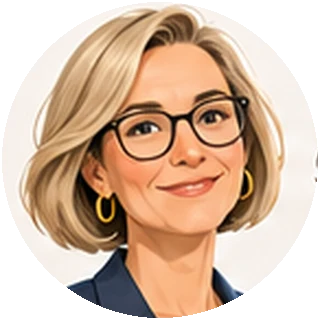
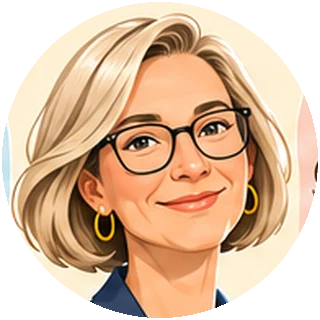
Portraits: re-cut all eight from Leo's corrected sheet
Larger faces, pastel background per figure, Pawel in KONTOR shirt,
courier with Express-Nord cap (no real brand).

Claude-Session: https://claude.ai/code/session_01DC5VQB2TshgMSF986Y8GDT

diff --git a/vorschau/gespraechsszene.html b/vorschau/gespraechsszene.html
@@ -51,7 +51,7 @@
   </div>
 
   <h2>Alle Porträts</h2>
-  <p><img class="gespraech__bild" src="../assets/figuren/nora.webp" alt="nora" style="margin:0 .4rem .4rem 0"> <img class="gespraech__bild" src="../assets/figuren/lenz.webp" alt="lenz" style="margin:0 .4rem .4rem 0"> <img class="gespraech__bild" src="../assets/figuren/melnyk.webp" alt="melnyk" style="margin:0 .4rem .4rem 0"> <img class="gespraech__bild" src="../assets/figuren/haddad.webp" alt="haddad" style="margin:0 .4rem .4rem 0"> <img class="gespraech__bild" src="../assets/figuren/nowak.webp" alt="nowak" style="margin:0 .4rem .4rem 0"> <img class="gespraech__bild" src="../assets/figuren/becker.webp" alt="becker" style="margin:0 .4rem .4rem 0"> <img class="gespraech__bild" src="../assets/figuren/sommer.webp" alt="sommer" style="margin:0 .4rem .4rem 0"></p>
+  <p><img class="gespraech__bild" src="../assets/figuren/nora.webp" alt="nora" style="margin:0 .4rem .4rem 0"> <img class="gespraech__bild" src="../assets/figuren/lenz.webp" alt="lenz" style="margin:0 .4rem .4rem 0"> <img class="gespraech__bild" src="../assets/figuren/melnyk.webp" alt="melnyk" style="margin:0 .4rem .4rem 0"> <img class="gespraech__bild" src="../assets/figuren/haddad.webp" alt="haddad" style="margin:0 .4rem .4rem 0"> <img class="gespraech__bild" src="../assets/figuren/nowak.webp" alt="nowak" style="margin:0 .4rem .4rem 0"> <img class="gespraech__bild" src="../assets/figuren/becker.webp" alt="becker" style="margin:0 .4rem .4rem 0"> <img class="gespraech__bild" src="../assets/figuren/sommer.webp" alt="sommer" style="margin:0 .4rem .4rem 0"> <img class="gespraech__bild" src="../assets/figuren/bote.webp" alt="bote" style="margin:0 .4rem .4rem 0"></p>
 </main>
 <script src="../assets/lehrwerk.js"></script><script>Lehrwerk.modul('vorschau-gespraech');Lehrwerk.abschluss();</script>
 </body>

diff --git a/VORLAGE.md b/VORLAGE.md
@@ -232,7 +232,7 @@ Beispielsätze stehen in `<p class="satzbau">`.
 - `.formular` / `.formular-feld` – beschriftetes Formularraster
 - `.satzfolge` – klickbares Satzpuzzle mit Vorrat und gebautem Satz
 - `.bildgrammatik` – eigenes erklärendes Schaubild mit Bildunterschrift
-- `.gespraech` mit `.gespraech__zeile` (für die zweite Person zusätzlich `.gespraech__zeile--b`), darin `img.gespraech__bild` und `.gespraech__blase` mit `.gespraech__name` – Gesprächsszene mit festen Figurenporträts aus `assets/figuren/` (nora, lenz, melnyk, haddad, nowak, becker, sommer). Texte stehen nie im Bild, immer in der Blase.
+- `.gespraech` mit `.gespraech__zeile` (für die zweite Person zusätzlich `.gespraech__zeile--b`), darin `img.gespraech__bild` und `.gespraech__blase` mit `.gespraech__name` – Gesprächsszene mit festen Figurenporträts aus `assets/figuren/` (nora, lenz, melnyk, haddad, nowak, becker, sommer, bote). Texte stehen nie im Bild, immer in der Blase.
 
 Eigene Farben, Schriftgrößen oder `<style>`-Blöcke sind nicht vorgesehen. Einzelne
 `style="…"`-Angaben für Abstände sind geduldet; Farben laufen über bestehende Variablen.
